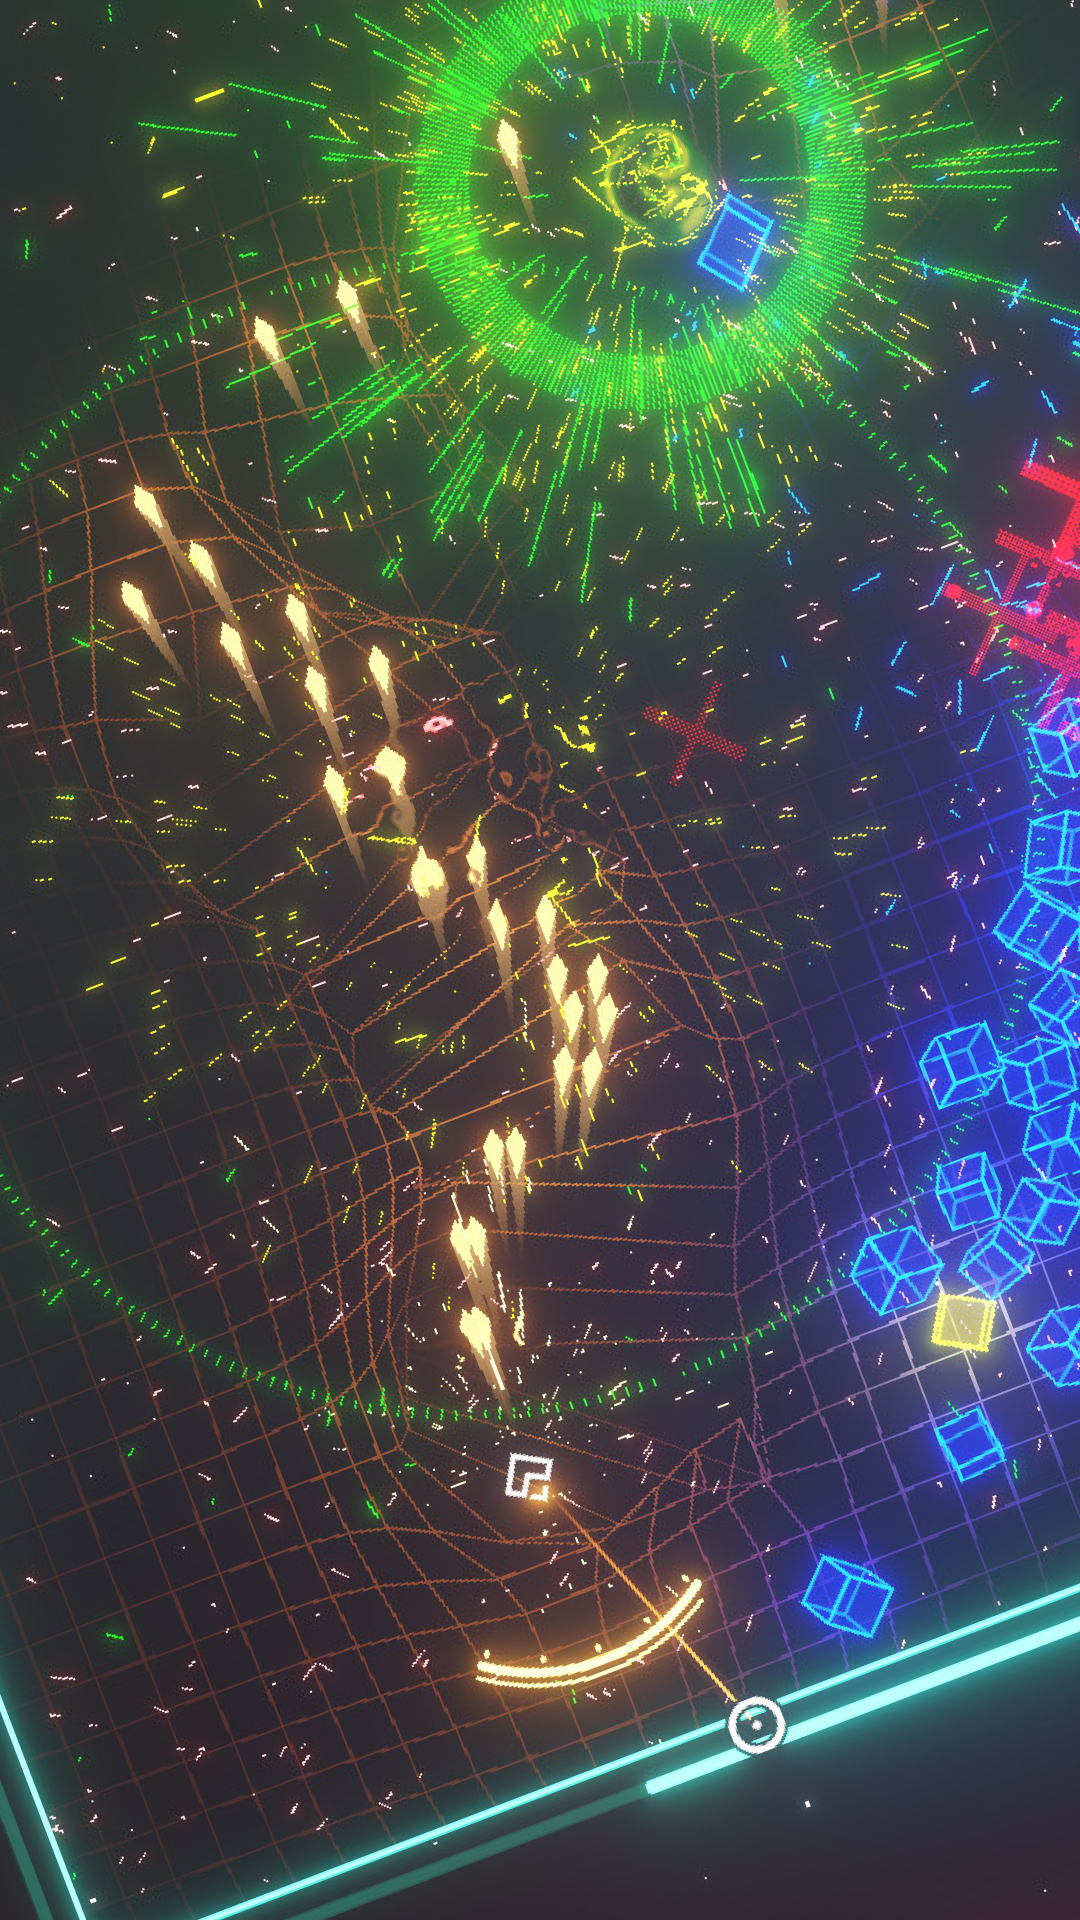
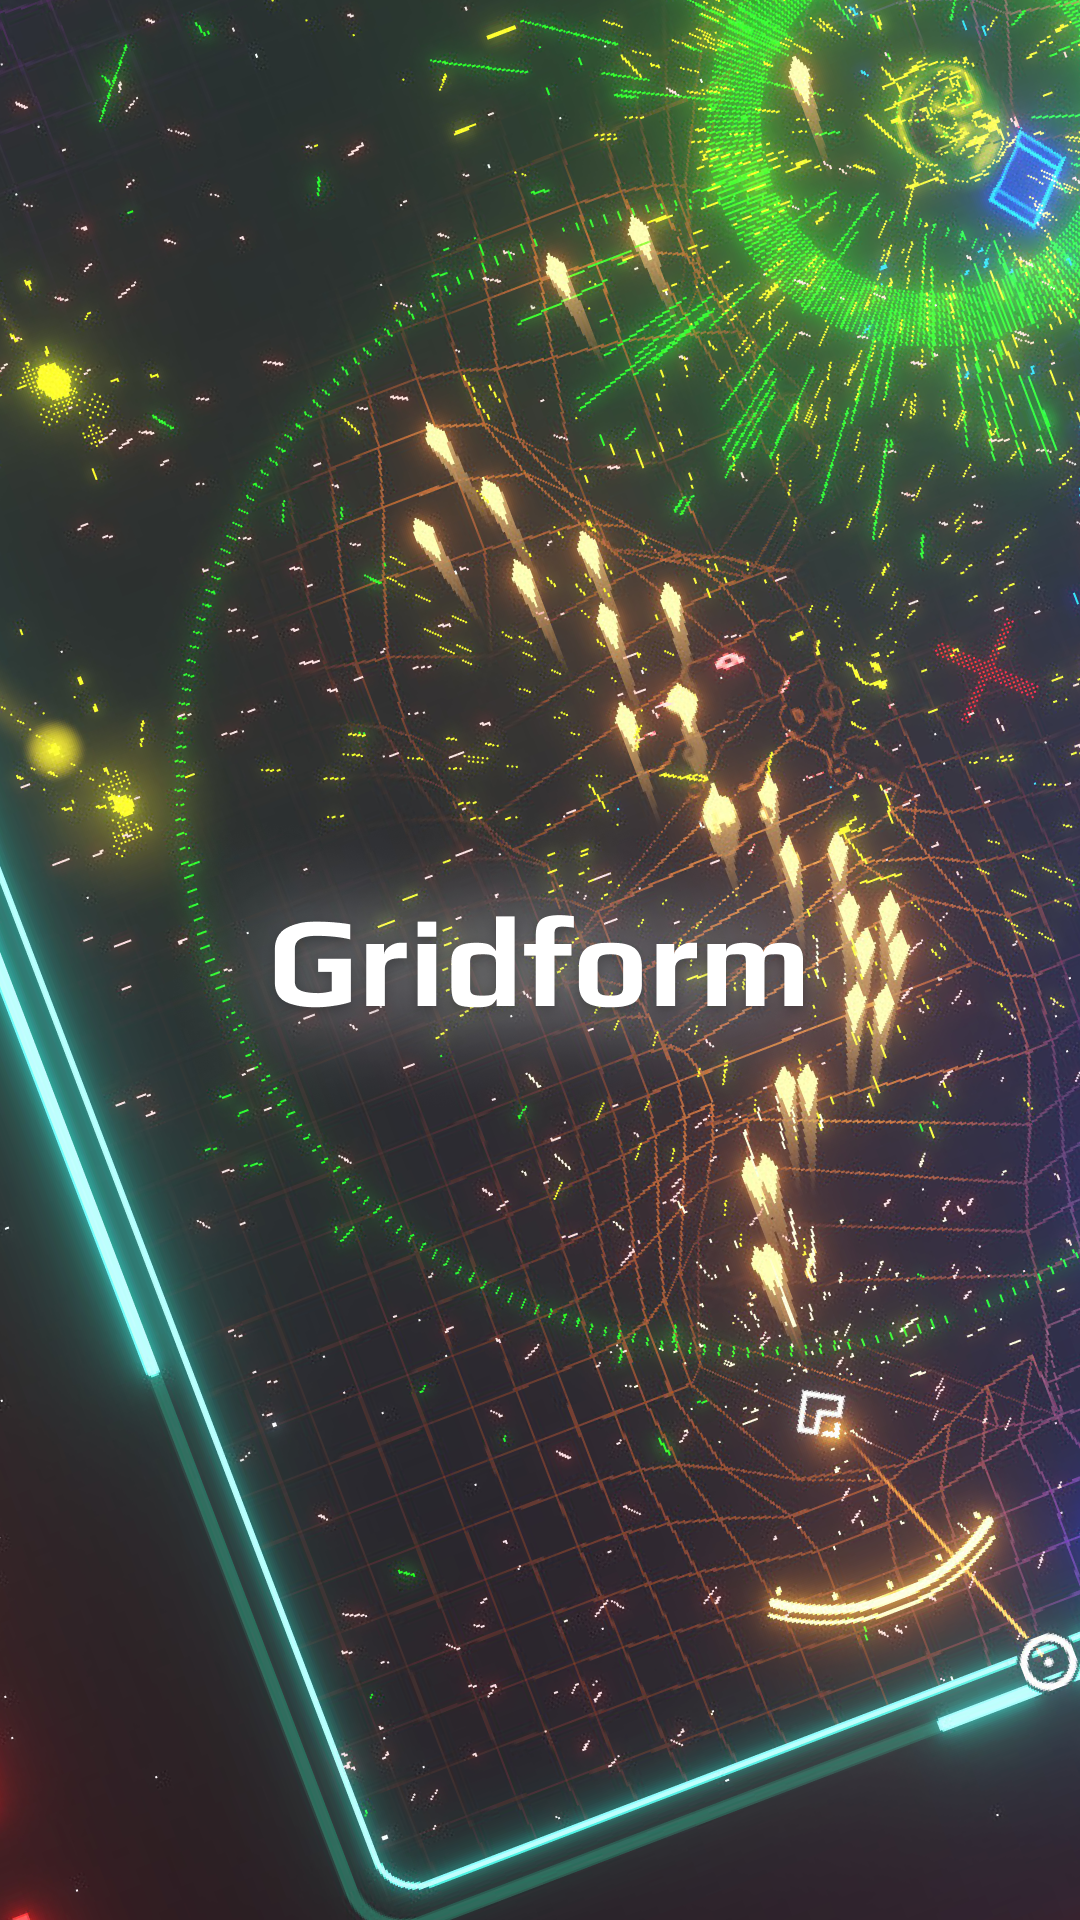
wip pre react router

diff --git a/src/App.tsx b/src/App.tsx
@@ -3,7 +3,7 @@ import ProjectListItem from "./components/projectsItem";
 import { ProjectData, ProjectDatabase } from "./ProjectsDatabase";
 import FullscreenIcon from "@mui/icons-material/Fullscreen";
 
-import TempImage from "./images/gfHoz1.png";
+import TempImage from "./images/gfHoz3.png";
 
 function App() {
   const [selectedProject, setSelectedProject] = useState<ProjectData>(
@@ -12,7 +12,12 @@ function App() {
 
   const [descriptionAnimation, setDescriptionAnimation] = useState(false);
 
+  const [showGallery, setShowGallery] = useState(false);
+
   const setProject = (projectTitle: string) => {
+    if (projectTitle === selectedProject.title) {
+      return;
+    }
     for (let i = 0; i < ProjectDatabase.length; i++) {
       if (ProjectDatabase[i].title === projectTitle) {
         setSelectedProject(ProjectDatabase[i]);
@@ -23,8 +28,121 @@ function App() {
   };
 
   const MainPage = () => {
-    return <div></div>
-  }
+    return (
+      <>
+        <div className="w-[512px] flex flex-col gap-4">
+          <div className="rounded-[32px] bg-offwhite/[0.03] p-8 border border-offwhite/[0.05]">
+            <p className="font-light text-4xl">Alan Sherba</p>
+            <div className="h-4" />
+            <p className="font-light text-base">
+              Gameplay <span className="font-black">Programmer</span>
+            </p>
+            <p className="font-light text-base">
+              UX, Feel, Action, Game{" "}
+              <span className="font-black">Designer</span>
+            </p>
+            <p className="font-light text-base">
+              Unity <span className="font-black">Engineer</span>
+            </p>
+            <p className="font-light text-base">
+              VFX, Tech <span className="font-black">Artist</span>
+            </p>
+          </div>
+
+          {/* Media Gallery */}
+          <div className="relative select-none min-h-0 bg-offwhite/[0.03] flex-grow rounded-[32px] pr-4">
+            {/* Inside border without messing with box */}
+            <div className="absolute top-0 left-0 right-0 bottom-0 border border-offwhite/[0.05] rounded-[32px]" />
+            <div className="relative bg-offwhite/[0.03] w-full h-full rounded-[32px] pr-4">
+              {/* Inside border without messing with box */}
+              <div className="absolute top-0 left-0 right-0 bottom-0 border border-offwhite/[0.05] rounded-[32px]" />
+              <img
+                className="object-cover box-border w-full h-full rounded-[32px] border border-offwhite/[0.05]"
+                src={TempImage}
+              ></img>
+              {/* Inside border without messing with box. This ones positioned well so we use it as the IMG container div*/}
+              <div className="absolute flex justify-end top-0 left-0 right-[16px] bottom-0 border border-offwhite/[0.05] rounded-[32px] p-4">
+                {/* Gallery Button */}
+                <button
+                  className="flex shadow-xl h-min flex-row gap-4 bg-black/50 backdrop-blur-xl pl-8 pr-8 pt-4 pb-4 rounded-[25px] hover:bg-offwhite hover:text-black"
+                  onClick={() => setShowGallery(true)}
+                >
+                  <p>Gallery</p>
+                  <FullscreenIcon />
+                </button>
+              </div>
+            </div>
+          </div>
+        </div>
+
+        <div className="h-full w-[2px] bg-[#30302B4D]" />
+
+        {/* List section */}
+
+        <div className="flex flex-col w-[512px] pt-8 pb-8">
+          <p className="font-light text-4xl relative select-none">
+            Projects
+            <div className="absolute left-[-40px] top-0 bottom-0 m-auto h-[3px] rounded w-4 bg-offwhite"></div>
+          </p>
+          <div className="h-4" />
+
+          {/* Projects list */}
+          {ProjectDatabase.map((project) => (
+            <ProjectListItem
+              key={project.title}
+              title={project.title}
+              subtitle={project.subtitle}
+              year={project.year}
+              selected={project.title === selectedProject.title}
+              onClick={() => {
+                setProject(project.title);
+              }}
+            />
+          ))}
+
+          <div className="flex-grow" />
+          {/* Project Description */}
+          <div
+            className={
+              "flex flex-col gap-4 " +
+              (descriptionAnimation ? "animate-descriptionSlideIn" : "")
+            }
+            onAnimationEnd={() => setDescriptionAnimation(false)}
+          >
+            <p className="font-light text-4xl relative">
+              {selectedProject.title}
+              <div className="absolute left-[-40px] top-0 bottom-0 m-auto h-[3px] rounded w-4 bg-offwhite"></div>
+            </p>
+            <p>{selectedProject.description}</p>
+            {selectedProject.link && selectedProject.linkText && (
+              <a
+                className="underline text-[#71BBFF]"
+                target="_blank"
+                href={selectedProject.link}
+              >
+                {selectedProject.linkText}
+              </a>
+            )}
+          </div>
+        </div>
+      </>
+    );
+  };
+
+  const Gallery = () => {
+    return (
+      <>
+        <div className="w-[1090px] flex flex-col gap-4"></div>
+      </>
+    );
+  };
+
+  const BodySection = () => {
+    if (showGallery) {
+      return Gallery();
+    }
+    return MainPage();
+  };
 
   return (
     <div className="absolute h-full w-full bg-black p-4 flex flex-row gap-8 overflow-clip animate-fadeIn">
@@ -33,97 +151,7 @@ function App() {
       <div className="absolute bg-offwhite w-[600px] h-[64px] left-0 bottom-[64px] rotate-[-30deg] blur-[256px]" />
       <div className="absolute bg-offwhite w-[1200px] h-[48px] left-0 top-[64px] rotate-[20deg] blur-[256px]" />
 
-      <div className="w-[512px] flex flex-col gap-4">
-        <div className="rounded-[32px] bg-offwhite/[0.03] p-8 border border-offwhite/[0.05]">
-          <p className="font-light text-4xl">Alan Sherba</p>
-          <div className="h-4" />
-          <p className="font-light text-base">
-            Gameplay <span className="font-black">Programmer</span>
-          </p>
-          <p className="font-light text-base">
-            UX, Feel, Action, Game <span className="font-black">Designer</span>
-          </p>
-          <p className="font-light text-base">
-            Unity <span className="font-black">Engineer</span>
-          </p>
-          <p className="font-light text-base">
-            VFX, Tech <span className="font-black">Artist</span>
-          </p>
-        </div>
-
-        {/* Media Gallery */}
-        <div className="relative select-none min-h-0 bg-offwhite/[0.03] flex-grow rounded-[32px] pr-4">
-          {/* Inside border without messing with box */}
-          <div className="absolute top-0 left-0 right-0 bottom-0 border border-offwhite/[0.05] rounded-[32px]" />
-          <div className="relative bg-offwhite/[0.03] w-full h-full rounded-[32px] pr-4">
-            {/* Inside border without messing with box */}
-            <div className="absolute top-0 left-0 right-0 bottom-0 border border-offwhite/[0.05] rounded-[32px]" />
-            <img
-              className="object-cover box-border w-full h-full rounded-[32px] border border-offwhite/[0.05]"
-              src={TempImage}
-            ></img>
-            {/* Inside border without messing with box. This ones positioned well so we use it as the IMG container div*/}
-            <div className="absolute flex justify-end top-0 left-0 right-[16px] bottom-0 border border-offwhite/[0.05] rounded-[32px] p-4">
-              {/* Gallery Button */}
-              <button className="flex shadow-xl h-min flex-row gap-4 bg-black/50 backdrop-blur-xl pl-8 pr-8 pt-4 pb-4 rounded-[25px] hover:bg-offwhite hover:text-black">
-                <p>Gallery</p>
-                <FullscreenIcon />
-              </button>
-            </div>
-          </div>
-        </div>
-      </div>
-
-      <div className="h-full w-[2px] bg-[#30302B4D]" />
-
-      {/* List section */}
-
-      <div className="flex flex-col w-[512px] pt-8 pb-8">
-        <p className="font-light text-4xl relative select-none">
-          Projects
-          <div className="absolute left-[-40px] top-0 bottom-0 m-auto h-[3px] rounded w-4 bg-offwhite"></div>
-        </p>
-        <div className="h-4" />
-
-        {/* Projects list */}
-        {ProjectDatabase.map((project) => (
-          <ProjectListItem
-            key={project.title}
-            title={project.title}
-            subtitle={project.subtitle}
-            year={project.year}
-            selected={project.title === selectedProject.title}
-            onClick={() => {
-              setProject(project.title);
-            }}
-          />
-        ))}
-
-        <div className="flex-grow" />
-        {/* Project Description */}
-        <div
-          className={
-            "flex flex-col gap-4 " +
-            (descriptionAnimation ? "animate-descriptionSlideIn" : "")
-          }
-          onAnimationEnd={() => setDescriptionAnimation(false)}
-        >
-          <p className="font-light text-4xl relative">
-            {selectedProject.title}
-            <div className="absolute left-[-40px] top-0 bottom-0 m-auto h-[3px] rounded w-4 bg-offwhite"></div>
-          </p>
-          <p>{selectedProject.description}</p>
-          {selectedProject.link && selectedProject.linkText && (
-            <a
-              className="underline text-[#71BBFF]"
-              target="_blank"
-              href={selectedProject.link}
-            >
-              {selectedProject.linkText}
-            </a>
-          )}
-        </div>
-      </div>
+      {BodySection()}
 
       <div className="h-full w-[2px] bg-[#30302B4D]" />
 

diff --git a/tailwind.config.js b/tailwind.config.js
@@ -12,7 +12,7 @@ module.exports = {
         slideIn: 'slideIn .2s ease-out',
         slideOut: 'slideOut .1s ease-out',
         descriptionSlideIn: 'descriptionSlideIn .35s ease-out',
-        fadeIn: 'fadeIn 2s ease-in-out',
+        fadeIn: 'fadeIn 1.3s ease-in-out',
         blobSpin: 'blobSpin 200s infinite',
       },
       keyframes: {
